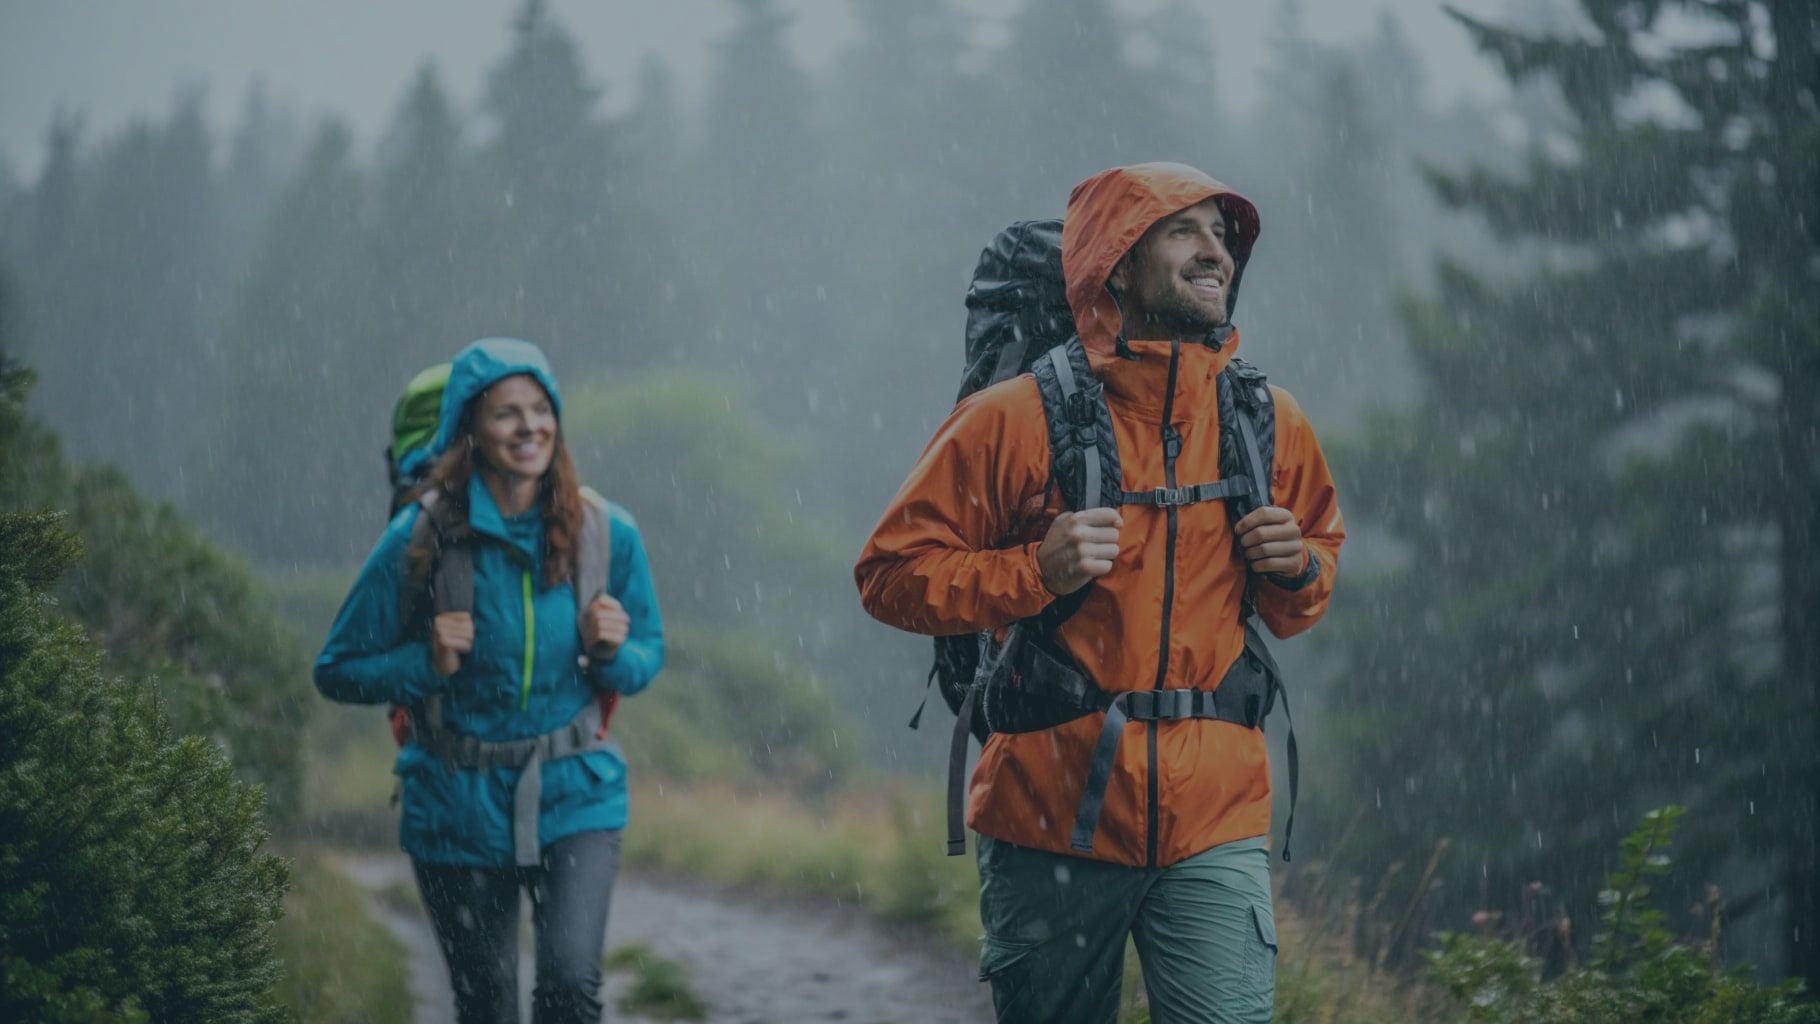
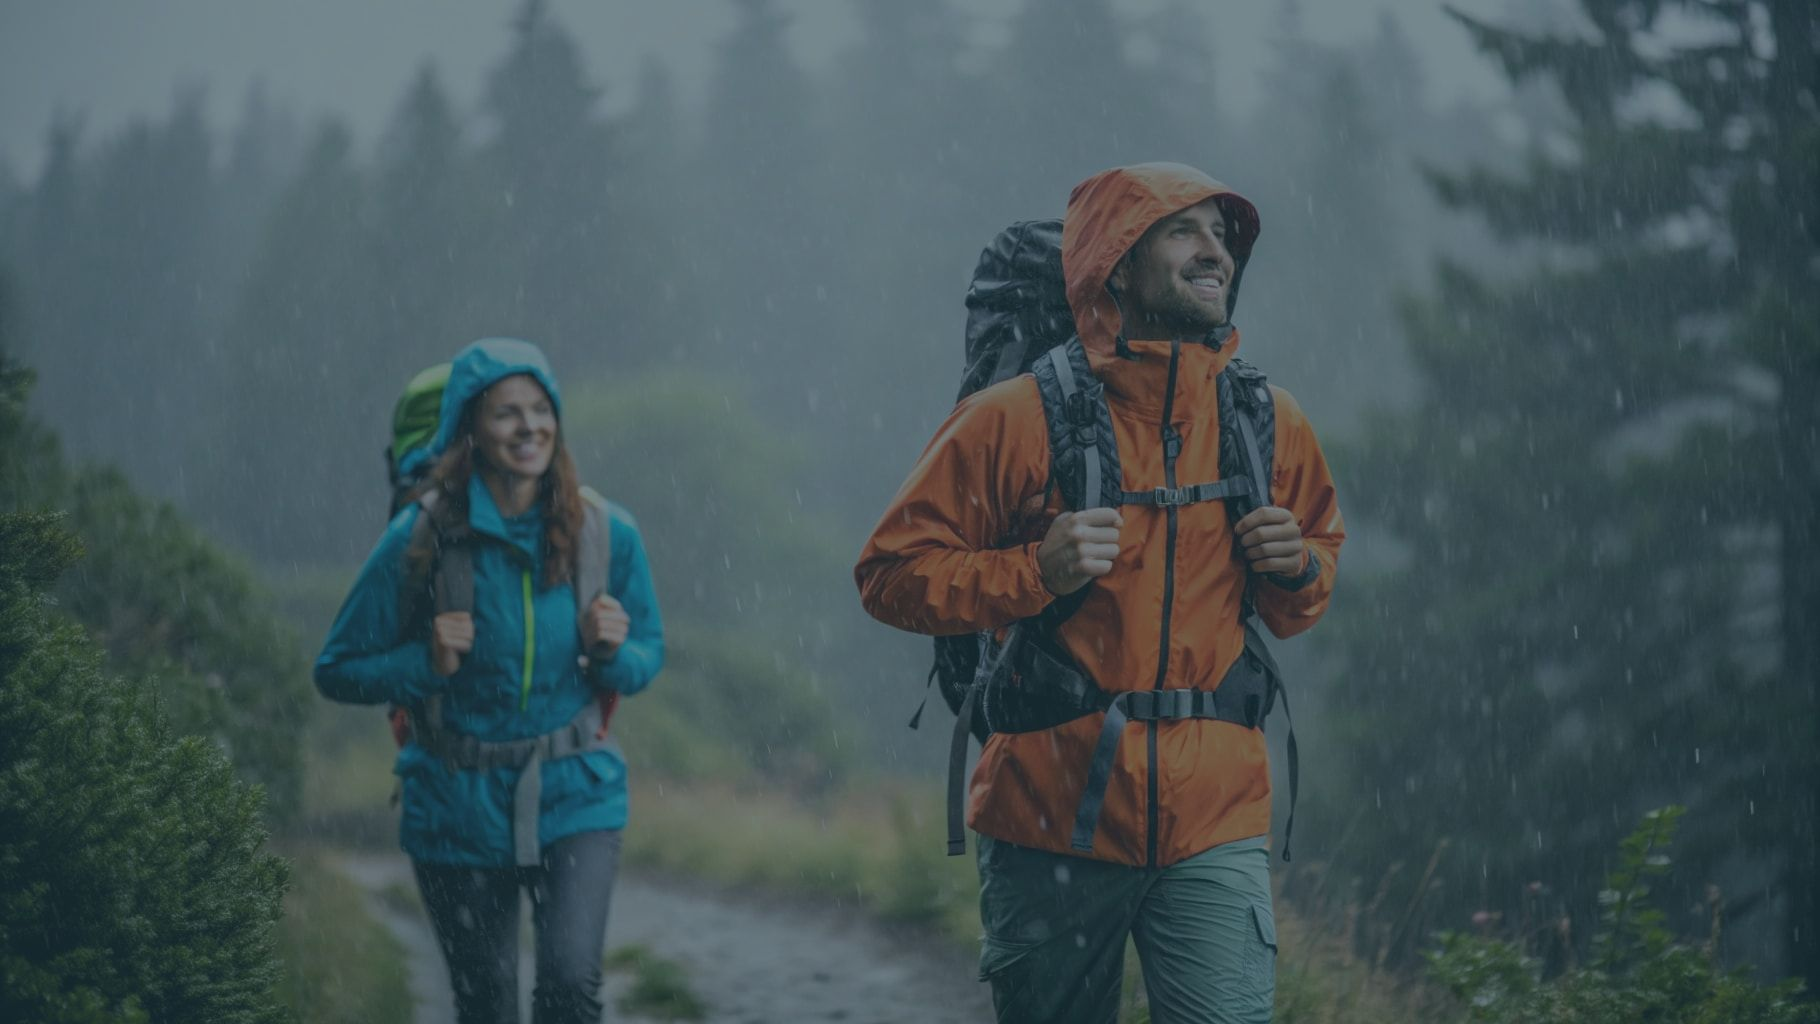
30.03.2025
bag fix: Footer, cta-button contrast, margin for cta-button, hero-homo contrast

diff --git a/checkout.html b/checkout.html
@@ -78,8 +78,10 @@
                                     <input type="radio" id="google-pay" name="payment" value="google-pay" class="form__input" required>
                                     <label for="google-pay">Google Pay</label>
                                 </fieldset>
-                            </form>  
-                            <a href="order-confirmation.html" class="cta-button">Pay order</a>
+                            </form>
+                            <div class="cta-section">
+                                <a href="order-confirmation.html" class="cta-button">Pay order</a>
+                            </div>  
                         </div>
                         <div class="checkout-info-content-right">
                             <div class="product-info-content-right">
@@ -160,7 +162,7 @@
                 </div>
                 <div class="under-container">
                     <div class="under-item">
-                        <a>&copy; RainyDays</a>
+                        <p>&copy; RainyDays</p>
                     </div>
                     <div class="under-item">
                         <div class="payment-icons">

diff --git a/all-jackets.html b/all-jackets.html
@@ -206,17 +206,17 @@
                 </div>
             </div>
             <div class="under-container">
-                <div class="under-item">
-                    <a>&copy; RainyDays</a>
-                </div>
-                <div class="under-item">
-                    <div class="payment-icons">
-                        <i class="fa-brands fa-cc-visa"></i>
-                        <i class="fa-brands fa-paypal"></i>
-                        <i class="fa-brands fa-cc-mastercard"></i>
-                        <i class="fa-brands fa-google-pay"></i>
-                    </div>
-                </div>   
+              <div class="under-item">
+                <p>&copy; RainyDays</p>
+              </div>
+              <div class="under-item">
+                  <div class="payment-icons">
+                    <i class="fa-brands fa-cc-visa"></i>
+                    <i class="fa-brands fa-paypal"></i>
+                    <i class="fa-brands fa-cc-mastercard"></i>
+                    <i class="fa-brands fa-google-pay"></i>
+                  </div>
+              </div>   
             </div>   
         </div>      
     </footer>

diff --git a/shopping-cart.html b/shopping-cart.html
@@ -62,8 +62,8 @@
                                 <option value="three">3</option>
                                 </select>
                             </form>
-                            <div class="order-total">
-                                <h2 class="shop-cart" tabindex="0">Order total:</h2>
+                            <div class="product-total">
+                                <h3 class="shop-cart" tabindex="0">Order total:</h3>
                                 <h2 class="price" tabindex="0">200 $</h2>
                             </div>
                             <a href="checkout.html" class="cta-button">To checkout</a>   
@@ -138,7 +138,7 @@
                 </div>
                 <div class="under-container">
                     <div class="under-item">
-                        <a>&copy; RainyDays</a>
+                        <p>&copy; RainyDays</p>
                     </div>
                     <div class="under-item">
                         <div class="payment-icons">

diff --git a/product-card.html b/product-card.html
@@ -73,7 +73,7 @@
                                     </fieldset>
                             </form>
                             <a href="shopping-cart.html" class="cta-button">Add to cart</a>
-                            <div>
+                            <div class="product-info-specific">
                             <h3 tabindex="0">Activities:</h3>
                             <p tabindex="0">Walking, Mountaineering, Multi-day, hiking</p>
                             <h3 tabindex="0">Key benefits:</h3>
@@ -150,7 +150,7 @@
                 </div>
                 <div class="under-container">
                     <div class="under-item">
-                        <a>&copy; RainyDays</a>
+                        <p>&copy; RainyDays</p>
                     </div>
                     <div class="under-item">
                         <div class="payment-icons">

diff --git a/css/styles.css b/css/styles.css
@@ -100,8 +100,9 @@ textarea {
     float: left;
     max-width: 8rem;
     max-height: 4.8rem;
-    padding: 1rem 1rem 1rem 1.2rem;
+    padding: 1rem 0;
 }
+
 .fa-solid, 
 .fa-brands{
     color: var(--color-hero-cta);
@@ -193,6 +194,9 @@ footer li{
 .under-item{
     margin: 0 2rem 1.5rem 2rem;
 }
+.under-item p{
+    color: var(--color-hero-cta);
+}
 .payment-icons i{
     margin: 0 1.2rem 0 1.2rem ;
 }
@@ -241,12 +245,19 @@ footer li{
     padding-left: 0;
     padding-right: 0;
 }
-
+.product-info-specific{
+    margin-top: 3rem;
+    margin-bottom: 3rem;
+}
 /* Shopping cart */
 
 .page-name{
     margin-bottom: 4rem;
 }
+.product-total{
+    margin-top: 3rem;
+    margin-bottom: 3rem;
+}  
 .price{
     color: var(--color-cta-button);
 }

diff --git a/about-us.html b/about-us.html
@@ -113,7 +113,7 @@
                 </div>
                 <div class="under-container">
                     <div class="under-item">
-                        <a>&copy; RainyDays</a>
+                        <p>&copy; RainyDays</p>
                     </div>
                     <div class="under-item">
                         <div class="payment-icons">

diff --git a/contact-us.html b/contact-us.html
@@ -114,7 +114,7 @@
                 </div>
                 <div class="under-container">
                     <div class="under-item">
-                        <a>&copy; RainyDays</a>
+                        <p>&copy; RainyDays</p>
                     </div>
                     <div class="under-item">
                         <div class="payment-icons">

diff --git a/index.html b/index.html
@@ -136,7 +136,7 @@
                 </div>
                 <div class="under-container">
                     <div class="under-item">
-                        <a>&copy; RainyDays</a>
+                        <p>&copy; RainyDays</p>
                     </div>
                     <div class="under-item">
                         <div class="payment-icons">

diff --git a/coming-soon.html b/coming-soon.html
@@ -98,7 +98,7 @@
                 </div>
                 <div class="under-container">
                     <div class="under-item">
-                        <a>&copy; RainyDays</a>
+                        <p>&copy; RainyDays</p>
                     </div>
                     <div class="under-item">
                         <div class="payment-icons">

diff --git a/order-confirmation.html b/order-confirmation.html
@@ -99,7 +99,7 @@
                 </div>
                 <div class="under-container">
                     <div class="under-item">
-                        <a>&copy; RainyDays</a>
+                        <p>&copy; RainyDays</p>
                     </div>
                     <div class="under-item">
                         <div class="payment-icons">

diff --git a/css/variables.css b/css/variables.css
@@ -7,6 +7,6 @@
     --color-body-paragraph: #1F3D47;
     --color-header-footer: #245654;
     --color-hero-cta: #FFF;
-    --color-cta-button: #F14B4B;
+    --color-cta-button: #c23833;
     --img-width-ctg: 100%
 }
